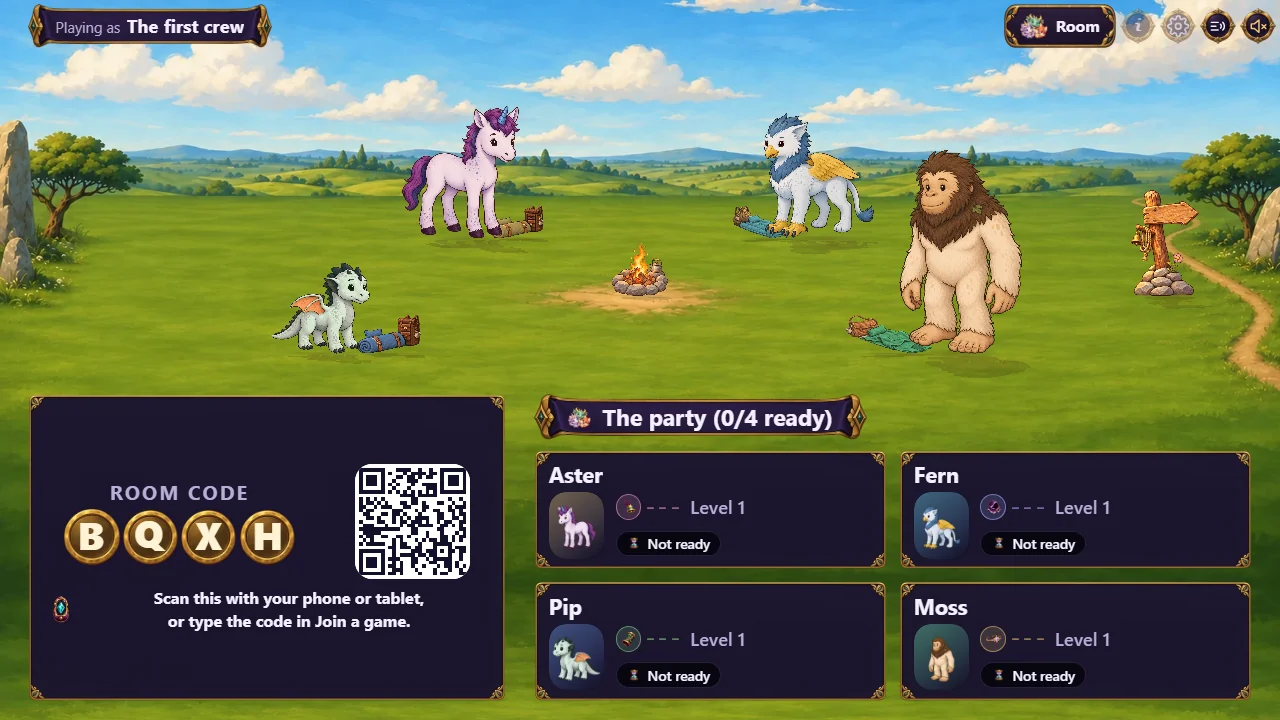
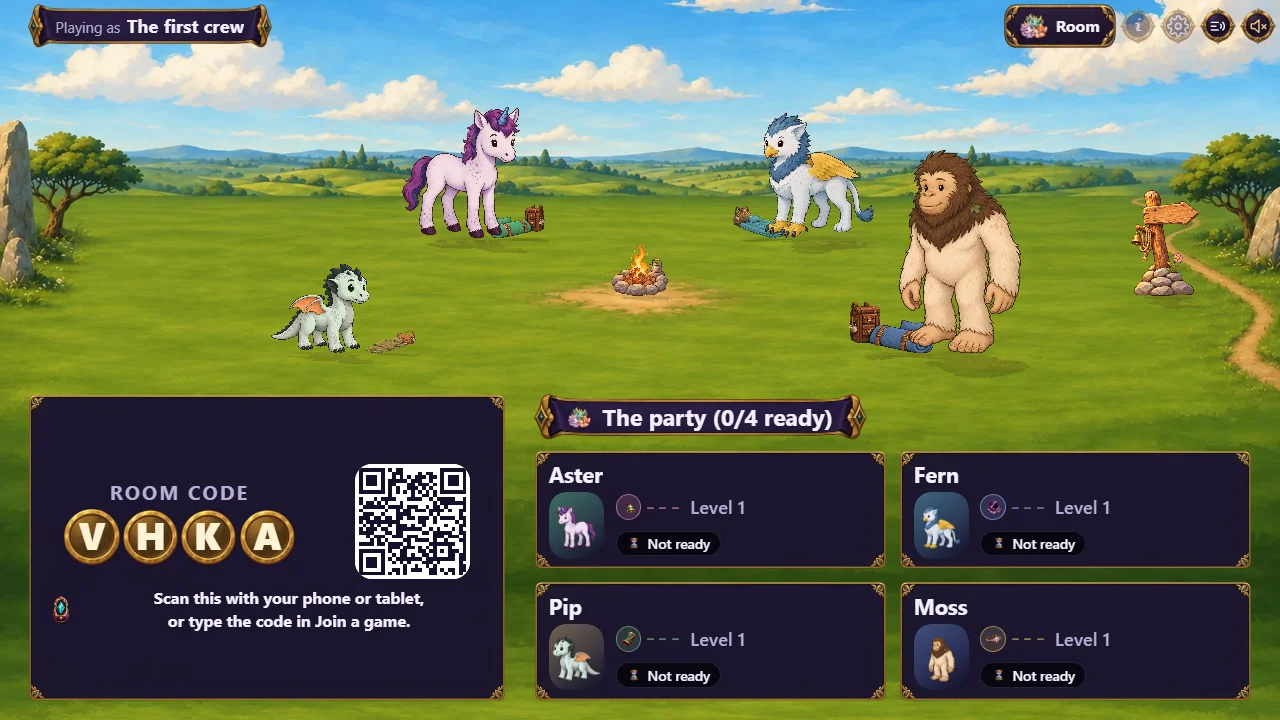
Scale owned camp kits with their heroes in both renderers

diff --git a/packages/client/src/world/StillCamp.tsx b/packages/client/src/world/StillCamp.tsx
@@ -22,7 +22,8 @@ import { ANCHOR_Y } from "./art-paths";
 import { NOMINAL_PAINT } from "./figure-scale";
 import { CampBedroll } from "./CampBedroll";
 import { Campfire } from "./Campfire";
-import { campKitStyle } from "./camp-kit-art";
+import { CAMP_KIT_STYLES, campKitStyle } from "./camp-kit-art";
+import { campOwnedScale, campPieceOwner } from "./camp-ownership";
 
 export function StillCamp({ layout, state }: { layout: CampLayout; state: RunState }): React.JSX.Element {
   const host = useRef<HTMLDivElement | null>(null);
@@ -96,14 +97,16 @@ export function StillCamp({ layout, state }: { layout: CampLayout; state: RunSta
         {layout.frame.pieces.map(piece => {
           const lane = layout.lanes.get(piece.lane);
           if (!lane) return null;
-          const seat = layout.frame.standPoints.find(point => point.hotspot === piece.id && point.action === "rest")?.seat;
-          const hero = seat === undefined ? undefined : heroes.find(hero => hero.figure.seat === seat);
-          const size = campHeightPx(pieceHeightCm(piece), campMeasure(layout.canvas.height)) * lane.scale
-            / (ANCHOR_Y - NOMINAL_PAINT.top) / layout.canvas.height;
+          const owner = campPieceOwner(layout, piece, heroes.map(hero => hero.figure));
+          const measure = campMeasure(layout.canvas.height);
+          const kitStyle = owner && piece.id.startsWith("bedroll") ? campKitStyle(owner.id) : null;
+          const paintHeight = kitStyle ? CAMP_KIT_STYLES[kitStyle].paintHeight : ANCHOR_Y - NOMINAL_PAINT.top;
+          const size = campHeightPx(pieceHeightCm(piece), measure) * campOwnedScale(owner, measure) * lane.scale
+            * (fit?.figureScale ?? 1) / paintHeight / layout.canvas.height;
           return <span key={piece.id} className="kad-static-camp__piece" data-piece={piece.id} style={{
             left: `${piece.x * 100}%`, top: `${lane.y * 100}%`, height: `${size * 100}%`, zIndex: Math.round(lane.y * 1000) - 1,
           }} data-mirrored={piece.id.startsWith("bedroll") && piece.x > .5 ? "true" : undefined}>
-            {hero ? <CampBedroll style={campKitStyle(hero.figure.id)} accent={hero.figure.accent ?? "#7FD4C1"} />
+            {owner && kitStyle ? <CampBedroll style={kitStyle} accent={owner.accent ?? "#7FD4C1"} />
               : piece.id === "campfire" ? <Campfire active={false} />
               : <img src={`/assets/${piece.path}`} alt="" />}
           </span>;

diff --git a/packages/client/src/world/camp.ts b/packages/client/src/world/camp.ts
@@ -29,6 +29,7 @@
 import { Assets, Container, Graphics, Rectangle, Sprite, Texture, type Application } from "pixi.js";
 import { CAMP_KIT_STYLES, campKitStyle } from "./camp-kit-art";
 import { campKitCanvas } from "./camp-kit-canvas";
+import { campOwnedScale, campPieceOwner } from "./camp-ownership";
 import type { CastStance } from "@kad/shared";
 import {
   ANCHOR_X,
@@ -256,6 +257,7 @@ interface Actor {
 }
 
 interface PieceView {
+  ownerScale: number;
   shadow: Container;
   groundCount: number;
   mirrored: boolean;
@@ -397,6 +399,7 @@ export function createCamp(app: Application, layout: CampLayout, options: CampOp
     ground.addChild(container);
     const entry: PieceView = {
       id: piece.id,
+      ownerScale: 1,
       shadow,
       groundCount,
       mirrored: piece.id.startsWith("bedroll") && piece.x > .5,
@@ -863,7 +866,7 @@ export function createCamp(app: Application, layout: CampLayout, options: CampOp
 
     const active = activeHotspots(layout.frame.standPoints, usingPoints());
     for (const piece of pieces.values()) {
-      piece.container.scale.set(piece.laneScale * figureScale);
+      piece.container.scale.set(piece.laneScale * figureScale * piece.ownerScale);
       if (!piece.part || !piece.motion) continue;
       piece.strength = approach(piece.strength, !still && active.has(piece.id) ? 1 : 0, PART_RATE, dt);
       if (piece.strength < 0.001) piece.strength = 0;
@@ -882,6 +885,11 @@ export function createCamp(app: Application, layout: CampLayout, options: CampOp
 
   function setFigures(figures: readonly CampFigure[]): void {
     if (destroyed) return;
+    for (const definition of layout.frame.pieces) {
+      const piece = pieces.get(definition.id)!;
+      piece.ownerScale = campOwnedScale(campPieceOwner(layout, definition, figures), measure);
+      piece.container.scale.set(piece.laneScale * figureScale * piece.ownerScale);
+    }
     for (const def of figures) {
       if (def.seat === undefined || !def.accent) continue;
       const point = layout.frame.standPoints.find(p => p.seat === def.seat && p.action === "rest");

diff --git a/packages/client/src/world/camp.test.ts b/packages/client/src/world/camp.test.ts
@@ -19,8 +19,43 @@ import { MIN_FIGURE_SCALE, campFit, campWindow } from "./camp-framing";
 import { fitCanvas } from "./figure-scale";
 import { MAX_WALKERS } from "./camp-wander";
 import { CAMP_KIT_STYLES, campKitStyle } from "./camp-kit-art";
+import { campOwnedScale } from "./camp-ownership";
 
 beforeAll(installFakeCanvas2D);
+
+it("resizes any owned piece with its hero without moving its ground contact or reloading art", async () => {
+  const layout = campLayoutFixture();
+  const owned = layout.frame.pieces.find(piece => piece.id === "pack")!;
+  owned.ownerSeat = 0;
+  const app = fakeApp();
+  const urls: string[] = [];
+  const stage = createCamp(app as unknown as Application, layout, { still: true, loadTexture: url => {
+    urls.push(url);
+    return Promise.resolve(Texture.WHITE);
+  } });
+  stage.resize(1280, 720);
+  const hero: CampFigure = { id: "owner", url: null, heightCm: 85, stance: "standing", seat: 0 };
+  const ground = stage.view.children[1] as Container;
+  const pack = ground.children.find(child => child.label === "piece:pack")!;
+  const fire = ground.children.find(child => child.label === "piece:campfire")!;
+  const ratio = () => pack.scale.y / layout.lanes.get(owned.lane)!.scale
+    / (fire.scale.y / layout.lanes.get("middle")!.scale);
+  stage.setFigures([hero]);
+  app.ticker.frame(16);
+  await Promise.resolve();
+  const at = { x: pack.x, y: pack.y };
+  const count = urls.length;
+  expect(ratio()).toBeCloseTo(campOwnedScale(hero, campMeasure(1080)));
+  stage.setFigures([{ ...hero, heightCm: 215 }]);
+  app.ticker.frame(16);
+  expect(ratio()).toBeCloseTo(campOwnedScale({ heightCm: 215 }, campMeasure(1080)));
+  expect({ x: pack.x, y: pack.y }).toEqual(at);
+  expect(urls).toHaveLength(count);
+  stage.setFigures([]);
+  app.ticker.frame(16);
+  expect(ratio()).toBeCloseTo(1);
+  stage.destroy();
+});
 
 it.each([false, true])("loads a seated hero's kit and retains a bedroll if the variant fails (%s)", async failed => {
   const ownLayout = campLayoutFixture();

diff --git a/packages/client/src/world/camp-ownership.test.ts b/packages/client/src/world/camp-ownership.test.ts
@@ -1,0 +1,25 @@
+import { expect, it } from "vitest";
+import { campLayoutFixture } from "../testing/camp-fixture";
+import { campOwnedScale, campPieceOwner } from "./camp-ownership";
+import { campHeightPx, campMeasure } from "./camp-motion";
+
+const measure = campMeasure(1080);
+it.each([15, 85, 160, 215, 1000])("keeps owned kit proportional to its %s cm owner's displayed size", heightCm => {
+  const base = campHeightPx(40, measure);
+  const owned = base * campOwnedScale({ heightCm }, measure);
+  expect(owned / campHeightPx(heightCm, measure)).toBeCloseTo(base / campHeightPx(160, measure));
+  if (heightCm === 85) expect(owned).toBeLessThan(measure.floor!);
+});
+it("leaves unowned shared pieces at their authored size", () => {
+  expect(campOwnedScale(undefined, measure)).toBe(1);
+  expect(campPieceOwner(campLayoutFixture(), { id: "campfire", path: "", lane: "middle", x: .5 }, [{ seat: 0, heightCm: 85 }])).toBeUndefined();
+});
+it("assigns any owned piece by seat, independently of party order or a rest hotspot", () => {
+  const layout = campLayoutFixture();
+  const figures = [{ seat: 1, heightCm: 215 }, { seat: 0, heightCm: 85 }];
+  expect(campPieceOwner(layout, { id: "travel_chest", path: "", lane: "near", x: .5, ownerSeat: 0 }, figures)).toBe(figures[1]);
+  expect(campPieceOwner(layout, { id: "travel_chest", path: "", lane: "near", x: .5, ownerSeat: 1 }, figures)).toBe(figures[0]);
+  expect(campPieceOwner(layout, { id: "travel_chest", path: "", lane: "near", x: .5, ownerSeat: 3 }, figures)).toBeUndefined();
+  layout.frame.standPoints.find(p => p.seat === 0)!.hotspot = "old_bedroll";
+  expect(campPieceOwner(layout, { id: "old_bedroll", path: "", lane: "back", x: .24 }, figures)).toBe(figures[1]);
+});

diff --git a/packages/client/src/world/static-camp.test.tsx b/packages/client/src/world/static-camp.test.tsx
@@ -12,6 +12,8 @@ import { makeCharacter, makeMember, makeState } from "../testing/fixtures";
 import { useGameStore } from "../store";
 import { StaticStage } from "./StaticStage";
 import { setLobbyInsetBottom } from "./stage-inset";
+import { CAMP_KIT_STYLES, type CampKitStyle } from "./camp-kit-art";
+import { figureSize } from "./figure-scale";
 
 function member(n: number, overrides: Partial<PartyMember> = {}): PartyMember {
   return makeMember({
@@ -32,6 +34,18 @@ afterEach(() => {
 });
 
 describe("the still camp", () => {
+  it("fits the painted pack to its owner's size rather than the PNG canvas", () => {
+    mount(makeState({ party: [
+      member(1, { character: makeCharacter({ id: "tiny", species: "dragonling" }) }),
+      member(2, { character: makeCharacter({ id: "large", species: "bigfoot" }) }),
+    ] }));
+    const heights = [0, 1].map(seat => {
+      const el = document.querySelector<HTMLElement>(`[data-piece="bedroll_${seat}"]`)!;
+      const style = el.querySelector("[data-camp-kit]")!.getAttribute("data-camp-kit") as CampKitStyle;
+      return parseFloat(el.style.height) * CAMP_KIT_STYLES[style].paintHeight;
+    });
+    expect(heights[1]! / heights[0]!).toBeCloseTo(figureSize("characters/bigfoot").heightCm / figureSize("characters/dragonling").heightCm);
+  });
   it("draws owned kit styles and the fire without motion", () => {
     mount(makeState({ party: [member(1), member(2)] }));
     expect(document.querySelectorAll("[data-camp-kit]")).toHaveLength(2);

diff --git a/packages/client/src/world/camp-kit-art.ts b/packages/client/src/world/camp-kit-art.ts
@@ -1,14 +1,17 @@
-/** Registered cloth regions in the 1024px paintings; leather and metal stay outside them. */
+/** Cloth regions and alpha-measured height fractions in the 1024px paintings; leather stays natural. */
 export const CAMP_KIT_STYLES = {
   rolled: {
+    paintHeight: 508 / 1024,
     path: "/assets/camp/kits/rolled.png",
     cloth: "M60 700L170 690L155 560L410 560L420 650L540 625L575 627L635 618L640 649L673 658L693 688L718 733L720 791L697 822L610 851L320 920L60 920Z M264 684L309 676L342 686L365 709L383 747L395 790L404 868L363 883L350 827L339 788L322 752L303 724L276 706Z M521 637L555 625L589 643L612 671L627 702L641 742L651 809L612 826L601 761L590 719L570 679L547 654Z",
   },
   quilted: {
+    paintHeight: 479 / 1024,
     path: "/assets/camp/kits/quilted.png",
     cloth: "M60 930V760Q150 670 260 675L350 643Q430 628 509 609L515 599L546 557Q558 553 578 562L637 574L655 580L700 580L714 608L704 638L777 655L816 672L840 693L842 733L825 765L650 818L353 920Z",
   },
   patched: {
+    paintHeight: 393 / 1024,
     path: "/assets/camp/kits/patched.png",
     cloth: "M60 930V780L210 738L220 716L310 696L355 668L430 677L490 650L544 659L578 610L602 614L642 628L686 645L721 659L736 671L722 701L716 719L786 738L817 744L771 762L710 786L570 834L340 930Z",
   },

diff --git a/packages/client/src/world/camp-kit.test.tsx b/packages/client/src/world/camp-kit.test.tsx
@@ -4,8 +4,17 @@ import { afterEach, expect, it } from "vitest";
 import manifest from "../../../../assets/manifest.json";
 import { CAMP_KIT_STYLES, campClothMatrix, campKitStyle } from "./camp-kit-art";
 import { CampBedroll } from "./CampBedroll";
+import { execFileSync } from "node:child_process";
 
 afterEach(cleanup);
+it("measures kit height from painted pixels, so transparent padding cannot change ownership scale", () => {
+  const styles = Object.values(CAMP_KIT_STYLES);
+  const output = execFileSync(process.platform === "win32" ? "python" : "python3", ["-c",
+    "import sys,json; from PIL import Image; print(json.dumps([(lambda box:(box[3]-box[1])/1024)(Image.open(p).getchannel('A').point(lambda a:255 if a>8 else 0).getbbox()) for p in sys.argv[1:]]))",
+    ...styles.map(art => art.path.slice(1)),
+  ], { encoding: "utf8" });
+  expect(styles.map(art => art.paintHeight)).toEqual(JSON.parse(output));
+});
 it("keeps runtime styles aligned with the art inventory", () => {
   expect(manifest.camp.kitStyles.map(art => [art.id, `/assets/${art.path}`]))
     .toEqual(Object.entries(CAMP_KIT_STYLES).map(([id, art]) => [id, art.path]));

diff --git a/packages/client/src/world/camp-ownership.ts b/packages/client/src/world/camp-ownership.ts
@@ -1,0 +1,18 @@
+import type { CampLayout, CampPiece } from "./camp-layout";
+import { campHeightPx } from "./camp-motion";
+import { DEFAULT_SIZE, type StageMeasure } from "./figure-scale";
+
+export interface CampOwner { seat?: number; heightCm: number }
+
+/** Explicit ownership also supports future packs/tents that have no rest hotspot. */
+export function campPieceOwner<T extends CampOwner>(layout: CampLayout, piece: CampPiece, figures: readonly T[]): T | undefined {
+  const seat = piece.ownerSeat ?? layout.frame.standPoints.find(point => point.hotspot === piece.id && point.seat !== undefined)?.seat;
+  return seat === undefined ? undefined : figures.find(figure => figure.seat === seat);
+}
+
+/** Scale after the base item's legibility floor, keeping its ratio to the drawn hero. */
+export function campOwnedScale(owner: CampOwner | undefined, measure: StageMeasure): number {
+  return owner && Number.isFinite(owner.heightCm) && owner.heightCm > 0
+    ? campHeightPx(owner.heightCm, measure) / campHeightPx(DEFAULT_SIZE.heightCm, measure)
+    : 1;
+}

diff --git a/packages/client/src/world/camp-layout.ts b/packages/client/src/world/camp-layout.ts
@@ -62,8 +62,10 @@ export interface CampPiece {
   path: string;
   lane: string;
   x: number;
-  /** How tall the painted piece really is. Absent: `pieceHeightCm` guesses from its id. */
+  /** Painted height, or the reference height for a 160cm owner. Absent: inferred from the id. */
   heightCm?: number;
+  /** Optional hero seat for owned kit; shared camp pieces omit it. */
+  ownerSeat?: number;
 }
 
 /**
@@ -278,6 +280,11 @@ function parseFrame(raw: unknown, at: string, backdrops: readonly CampBackdrop[]
       x: fraction(p["x"], `${where}.x`),
     };
     if (p["heightCm"] !== undefined) piece.heightCm = positive(p["heightCm"], `${where}.heightCm`);
+    if (p["ownerSeat"] !== undefined) {
+      const seat = p["ownerSeat"];
+      if (typeof seat !== "number" || !Number.isInteger(seat) || seat < 0 || seat >= CAMP_SEATS) fail(`${where}.ownerSeat`, "must be a seat from 0 to 3");
+      piece.ownerSeat = seat;
+    }
     onEveryBackdrop(piece, backdrops, where, true);
     return piece;
   });

diff --git a/packages/client/src/world/camp-layout.test.ts b/packages/client/src/world/camp-layout.test.ts
@@ -23,6 +23,13 @@ function parsed(change: (m: any) => void) {
 }
 
 describe("parseCampManifest", () => {
+  it("accepts explicit ownership and rejects an invalid hero seat", () => {
+    const read = parsed(m => { m.frames[0].pieces[0].ownerSeat = 0; })();
+    expect(read.frames[0]!.pieces[0]!.ownerSeat).toBe(0);
+    for (const seat of [-1, 4, 1.5, "0", true]) {
+      expect(parsed(m => { m.frames[0].pieces[0].ownerSeat = seat; })).toThrow(/ownerSeat/);
+    }
+  });
   it("reads the contract's shape", () => {
     const manifest = parseCampManifest(campManifestFixture());
     expect(manifest.backdropCanvas).toEqual({ width: 1920, height: 1080 });

diff --git a/tools/art/verify.py b/tools/art/verify.py
@@ -772,6 +772,9 @@ def check_camp_layout(rep: Report, mf: dict) -> None:
             if not CAMP_X_MIN <= piece["x"] <= CAMP_X_MAX:
                 problems.append(f"piece {piece['id']} within x {CAMP_X_MIN} to {CAMP_X_MAX}")
             height = piece.get("heightCm")
+            owner = piece.get("ownerSeat")
+            if owner is not None and (type(owner) is not int or owner not in CAMP_SEATS):
+                problems.append(f"piece {piece['id']} ownerSeat a seat from 0 to 3")
             if height is not None and (isinstance(height, bool) or not isinstance(height, (int, float)) or height <= 0):
                 problems.append(f"piece {piece['id']} heightCm a positive number")
         for part in frame.get("movingParts", []):

diff --git a/docs/briefs/camp.md b/docs/briefs/camp.md
@@ -118,6 +118,18 @@ counts the five Phase 1 paintings and three kits once each. Runtime tests tie st
 the manifest, check tint math and fallback, and guard against filter collisions between seats.
 The tent and tent-flap formats remain future work.
 
+## Hero-sized owned pieces
+
+`ownerSeat` on a camp piece declares which hero it belongs to. Existing seat-linked rest
+hotspots also infer that ownership. An owned piece's `heightCm` is its reference size for a
+160 cm hero; both renderers scale it in proportion to its owner's displayed height. A 40 cm
+kit therefore shrinks for a dragonling and grows for a bigfoot. The factor is applied after
+the base piece's legibility floor, and includes shadows and moving parts without changing
+ground contact. Shared pieces such as the fire and trailhead retain their authored size.
+Empty seats use the reference size. Reassigning a seat or changing the hero's size updates
+the piece without rerasterizing its art. The still renderer also accounts for the kit's
+actual painted height, rather than treating its transparent canvas as the object.
+
 ## Grounding and light
 
 The camp shares one upper-left daylight direction. Heroes and pieces have soft contact
